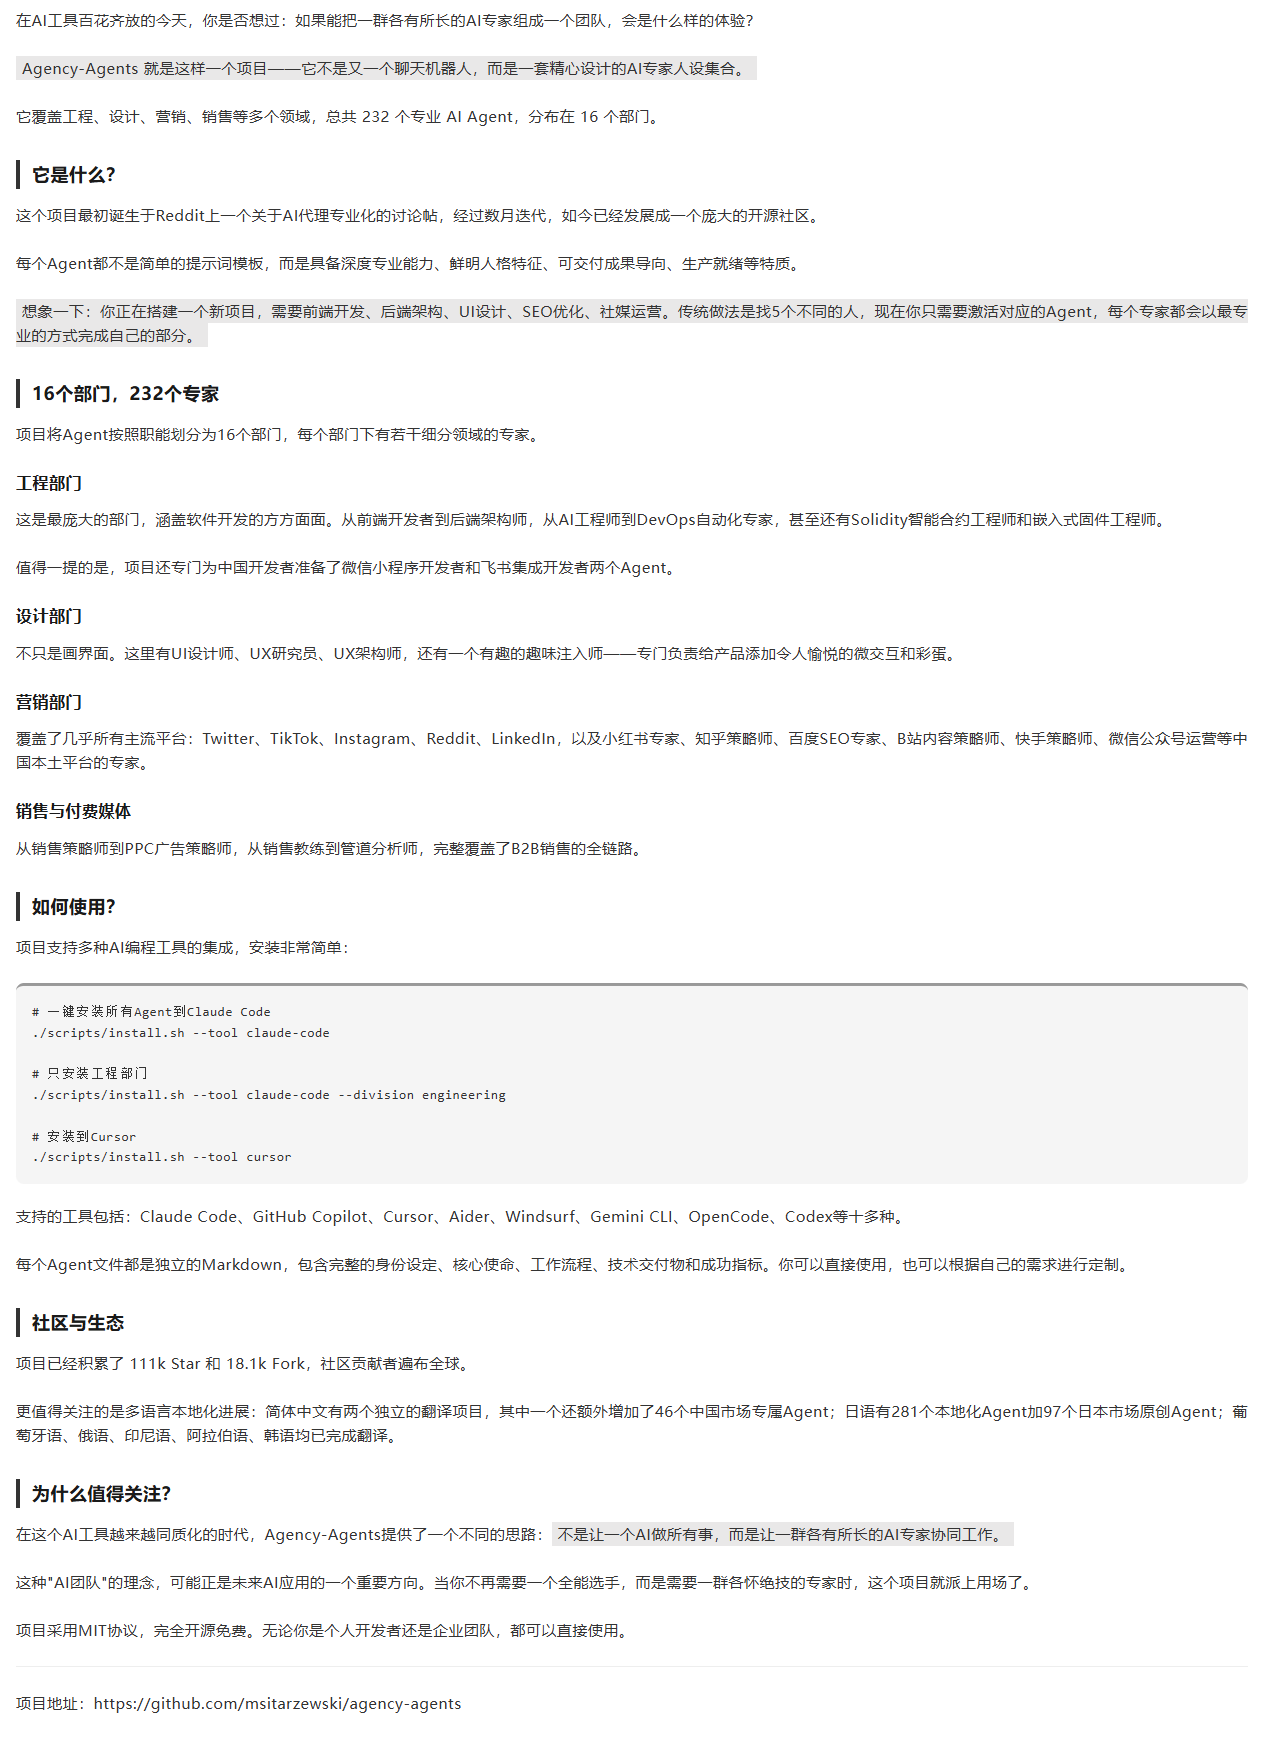
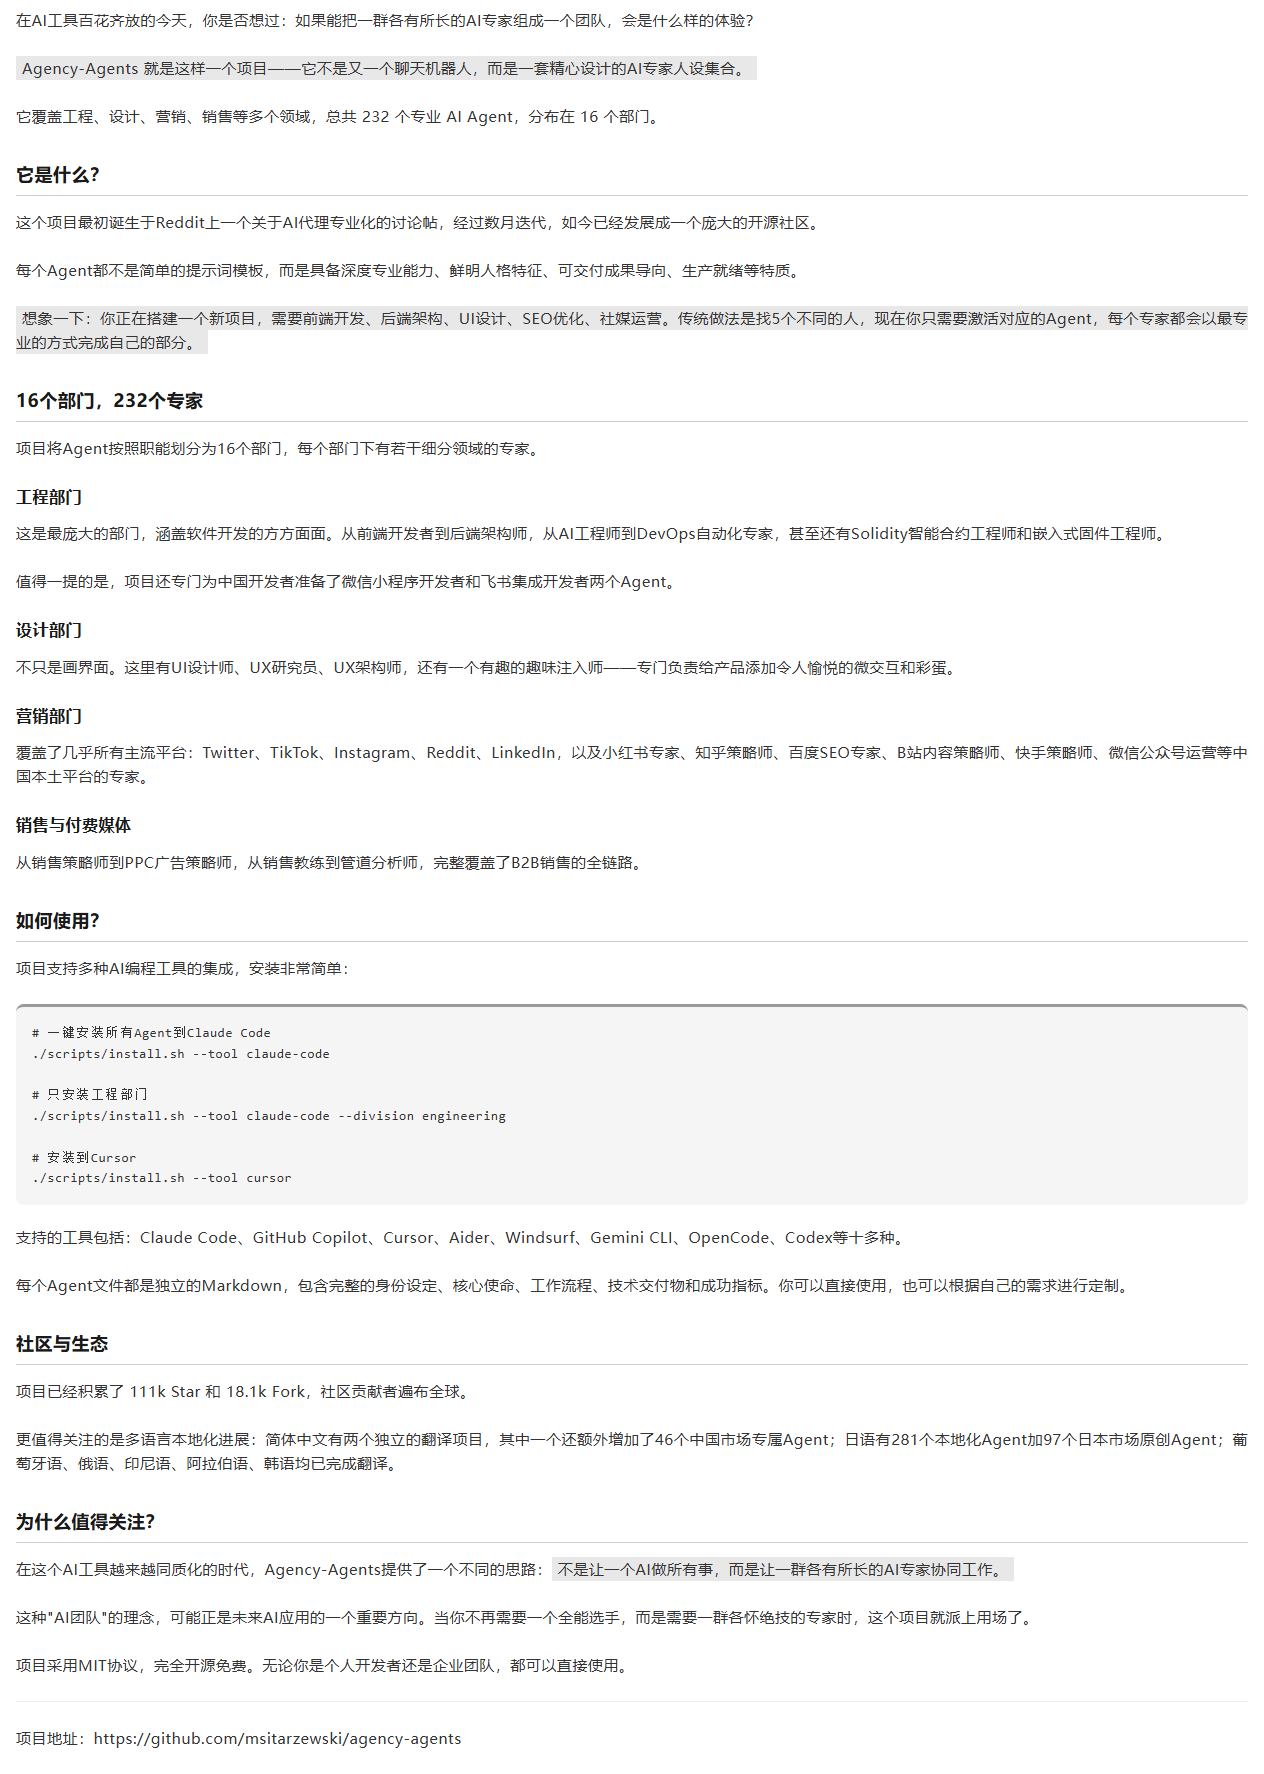
fix: 恢复默认模板底部横线标题，移除左侧竖线

diff --git a/references/template_guide.md b/references/template_guide.md
@@ -87,58 +87,61 @@
 
 ## 常见风格速查
 
+所有模板统一设计语言：**标题左侧 4px 竖线装饰** + **引用块右侧圆角 `0 8px 8px 0`** + **代码块 8px 圆角 + 顶部 3px 彩色边线**。
+
 ### 极简黑白灰（当前 default.json）
 - 正文：15px / 两端对齐 / 行高1.6 / 字间距0.5px / 段后距24px / 两端缩进8px
 - 色调：纯黑白灰，无彩色
-- 标题：仅 H2 有底线（`1px solid #cccccc`），H3 无底线（`border_bottom: none`）
-- 代码块/引用块：浅灰背景 `#f5f5f5` + 圆角 4px
+- 标题：H2 左侧黑色竖线 `4px solid #333333`，H3 无装饰
+- 代码块/引用块：浅灰背景 `#f5f5f5` + 圆角 8px
 - 强调：用 `==文字==` 语法，`background: #e9e8e8`，不用加粗
 - 图片圆角：8px
 - 参考来源：AIGCLAB 公众号
 
 ### 红色标题极简（red-minimal.json）
-- 标题：红色 `#e74c3c`，无底线装饰
-- 代码块顶部边线：红色 `#e74c3c`
+- 标题：红色左侧竖线 `#e74c3c`
+- 引用块：浅红底 `#fdf2f2` + 红色竖线
+- 代码块顶部边线：红色
 - 参考来源：赛博禅心公众号
 
 ### 暖色文艺（warm-literary.json）
 - 字体：Georgia / Noto Serif SC 衬线字体
 - 背景：暖米色 `#fffdf7`
-- 标题：暖棕色 `#8b4513`
+- 标题：暖棕色左侧竖线 + 淡色背景 `#fdf6ee`
 - 段落首行缩进 2em
 - 强调：暖棕底 `#f5e6d0` + 棕色字
 
 ### 暗黑高级（dark-elegant.json）
 - 背景：深色 `#1a1a1a`
-- 标题/强调色：金色 `#d4a843`
+- 标题：金色左侧竖线 `#d4a843`
 - 强调：深灰底 `#333333` + 金字
-- 代码块：深灰背景 `#2a2a2a`
+- 代码块：深灰背景 `#252525` + 金色顶线
 
 ### 蓝色科技（tech-blue.json）
-- 标题/链接/加粗：蓝色 `#1e90ff`
-- 引用块左边线 + 代码块顶部边线：蓝色
+- 标题：蓝色左侧竖线 `#1e90ff`
+- 引用块：浅蓝底 `#f0f7ff` + 蓝色竖线
 - 强调：浅蓝底 `#e8f4fd`
 
 ### 清新绿色（fresh-green.json）
-- 标题/链接/加粗：绿色 `#27ae60`
-- 引用块左边线 + 代码块顶部边线：绿色
+- 标题：绿色左侧竖线 `#27ae60`
+- 引用块：浅绿底 `#f0faf4` + 绿色竖线
 - 强调：浅绿底 `#e8f8ee`
 
 ### 商务灰（business-gray.json）
-- 标题：深灰 `#2c3e50`，底线 `#bdc3c7`
+- 标题：灰色左侧竖线 `#7f8c8d`
 - 整体中性灰色调，无彩色
 - 强调：浅灰底 `#eef1f5`
 
 ### 紫色创意（purple-creative.json）
-- 标题/链接/加粗：紫色 `#8e44ad`
-- 引用块左边线 + 代码块顶部边线：紫色
+- 标题：紫色左侧竖线 `#8e44ad`
+- 引用块：浅紫底 `#f9f2fc` + 紫色竖线
 - 强调：浅紫底 `#f3e8f9`
 
 ### 报刊 editorial（newspaper.json）
 - 衬线字体 Georgia / Noto Serif SC
-- 标题：纯黑，H1 底线 3px 粗黑
+- 标题：黑色左侧竖线 `#000000`
 - 段落首行缩进 2em
-- 图片/代码块无圆角（方正严肃风格）
+- 图片/代码块/引用块无圆角（方正严肃风格）
 - 强调：浅灰底 `#f0f0f0`
 
 ## 新增模板

diff --git a/SKILL.md b/SKILL.md
@@ -108,7 +108,7 @@ default.json 已按用户偏好定制为极简风格，核心参数：
 - **加粗** 无背景色，纯文字加粗（strong 背景 transparent）
 - **强调高亮** 用 `==文字==` 语法，渲染为 `background: #e9e8e8` 的 span（不用加粗）
 - **代码块** 浅灰背景 #f5f5f5，非深色主题
-- **标题** 左对齐，无居中。H2 有 1px #cccccc 底线装饰，H3 无底线
+- **标题** 左对齐，无居中。H2 左侧 4px 黑色竖线装饰，H3 无装饰
 - 标题层级：H1 20px / H2 18px / H3 16px
 - **正文不放标题** 文章正文区不插入居中大标题，直接从内容开始
 
@@ -180,7 +180,7 @@ GitHub: https://github.com/fhy2515127077/wechat-publisher (MIT)
 - **标题重复**：如果 Markdown 文件里有 H1 标题，又通过 `--title` 传了标题，排版时会自动移除 Markdown 中的第一个 H1 避免重复。这是 `format_wechat.py` 的内置行为。
 - **封面图必须有**：发布接口要求 `thumb_media_id`，没有封面图会报错。可先用 `--draft` 存草稿，后台手动加封面后再发布。
 - **订阅号权限不足**：未认证的订阅号没有草稿/发布 API 权限，会返回 errcode 48001。需升级为认证服务号或确认已开通接口权限。
-- **标题底线层级**：用户要求只有 H2（大标题/章节标题）有底线装饰，H3（小标题）不要底线。修改模板时注意 H3 的 `border_bottom` 应为 `"none"`。
+- **标题装饰层级**：用户要求 H2（章节标题）有左侧竖线装饰，H3（小标题）无装饰。修改模板时注意 H3 的 `border_left` 应为 `"none"`，`padding` 应为 `"0"`。
 - **强调用 == 语法不用加粗**：用户明确要求加粗（strong）不加背景色，需要高亮的句子用 `==文字==` 语法。不要用 `**文字**` 做强调高亮。
 - **正文不放标题**：用户要求文章正文区不插入居中大标题，直接从正文内容开始。排版时不传 `--title` 参数，标题在公众号后台单独设置。
 - **markdown2 codehilite 导致代码块空白**：markdown2 使用 `code-friendly` extra 时，代码块会生成 `<div class="codehilite"><p ...re><code>...</code></pre></div>` 结构，而非标准的 `<pre><code>`。WeChat 渲染器无法正确显示这种结构，导致代码块显示为空白。**已修复**：`format_wechat.py` 的 `inject_styles` 函数会先将 `codehilite` div 转换为带样式的 `<pre><code>` 块，再清理内部的 span 标签。如果未来 markdown2 版本变化导致代码块再次异常，检查生成的 HTML 中代码块的 DOM 结构。
